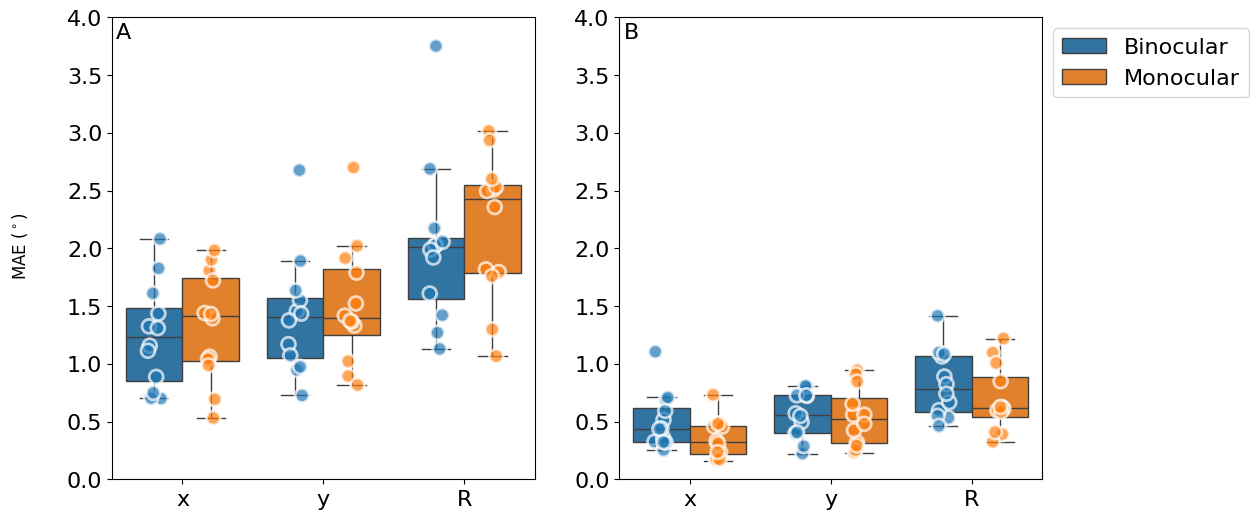
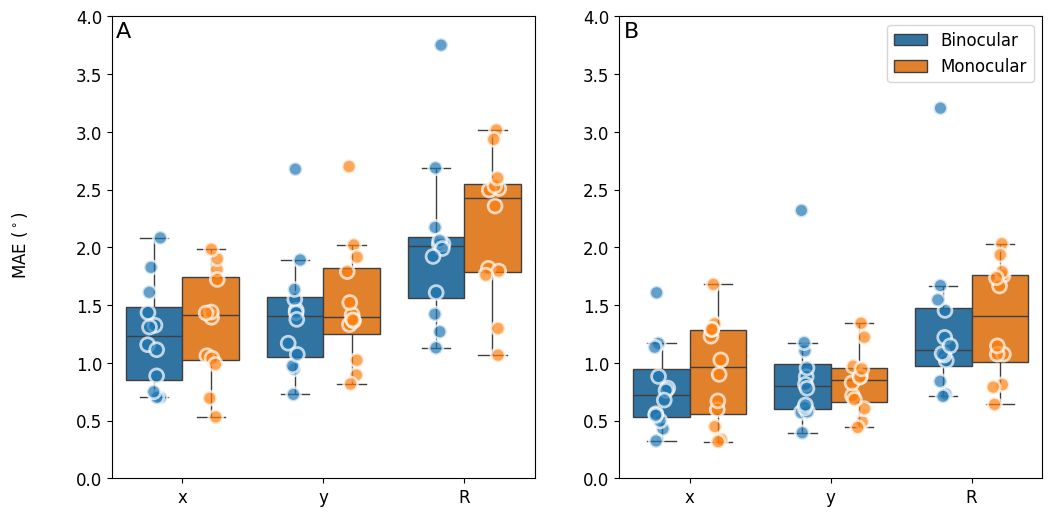
final figures

diff --git a/eyetracker_experiment1.py b/eyetracker_experiment1.py
@@ -169,7 +169,8 @@ data = pd.DataFrame({
 data_single_subject = data[data['subject ID'] == 's003']
 data_stimuli = data_single_subject[data_single_subject['procedure'] == 'MEASUREMENT_RIGHT']
 data_no_outliers = data[data['outlier'] == 0]
-data_no_outliers_central = data_no_outliers[data_no_outliers['stimulus position x'].between(-10, 10)]
+data_no_outliers_central = data_no_outliers[data_no_outliers['stimulus position x'].between(-15, 15)]
+data_no_outliers_7deg = data_no_outliers[data_no_outliers['stimulus position x'].between(-10, 10)]
 
 mae_subject = data_no_outliers.groupby(['subject ID', 'viewing', 'eye'])[['ae x', 'ae y', 'R']].mean().reset_index()
 mae_subject_central = data_no_outliers_central.groupby(['subject ID', 'viewing', 'eye'])[['ae x', 'ae y', 'R']].mean().reset_index()
@@ -204,14 +205,17 @@ sns.scatterplot(x='stimulus position x',
 
 axis1 = figure1.axes[0]
 axis1.set_xlim([-30,30])
-axis1.set_ylim([-21,21])
+axis1.set_ylim([-25,25])
+
+plt.gca().invert_xaxis()
+plt.gca().invert_yaxis()
 
 axis1.set_ylabel('Vertical POG ($^\circ$)')
 axis1.set_xlabel('Horizontal POG ($^\circ$)')
 
 handles, labels = axis1.get_legend_handles_labels()
 new_labels = [label.replace('subject ID', '').strip() for label in labels]
-axis1.legend(handles, new_labels, title='', loc='upper left', bbox_to_anchor=(1, 1))
+axis1.legend(handles, new_labels, title='', loc='lower right') #, loc='upper left', bbox_to_anchor=(1, 1))
 
 plt.savefig(f'{figures_dir}/single subject pog estimates.png', bbox_inches='tight')
 
@@ -242,7 +246,7 @@ plt.setp(axs2, xlim=custom_xlim, ylim=custom_ylim)
 
 handles, labels = axs2.get_legend_handles_labels()
 new_labels = [label.replace('subject ID', '').strip() for label in labels]
-axs2.legend(handles, new_labels, title='', loc='upper left', bbox_to_anchor=(1, 1))
+axs2.legend(handles, new_labels, title='', loc='lower right')#), bbox_to_anchor=(1, 1))
 
 plt.savefig(f'{figures_dir}/horizontal pog estimates vs target.png', bbox_inches='tight')
 
@@ -258,7 +262,7 @@ sns.scatterplot(data=data_no_outliers,
                 x='stimulus position y', y='pog y',
                 hue='subject ID', style='subject ID', 
                 s=sns_marker_size, ax=axs3[0])
-sns.scatterplot(data=data_no_outliers_central, 
+sns.scatterplot(data=data_no_outliers_7deg, 
                 x='stimulus position y', y='pog y',
                 hue='subject ID', style='subject ID', 
                 s=sns_marker_size, ax=axs3[1])
@@ -288,6 +292,77 @@ axs3[1].annotate('B', xy=(0.01, 0.99), xycoords='axes fraction', fontsize=font_s
 
 
 plt.savefig(f'{figures_dir}/vertical pog estimates vs target.png', bbox_inches='tight')
+
+#%%
+# Horizontal and vertical POG vs target
+figure3, axs3 = plt.subplots(2,2, figsize=(10,9))
+plt.rcParams['font.size'] = 12
+
+# draw identity lines
+axs3[0,0].axline((0,0), slope=1, color='gray', zorder=0)
+axs3[0,1].axline((0,0), slope=1, color='gray', zorder=0)
+axs3[1,0].axline((0,0), slope=1, color='gray', zorder=0)
+axs3[1,1].axline((0,0), slope=1, color='gray', zorder=0)
+
+sns.scatterplot(data=data_no_outliers, 
+                x='stimulus position x', y='pog x',
+                hue='subject ID', style='subject ID', 
+                s=sns_marker_size, ax=axs3[0,0])
+sns.scatterplot(data=data_no_outliers_7deg, 
+                x='stimulus position x', y='pog x',
+                hue='subject ID', style='subject ID', 
+                s=sns_marker_size, ax=axs3[0,1])
+sns.scatterplot(data=data_no_outliers, 
+                x='stimulus position y', y='pog y',
+                hue='subject ID', style='subject ID', 
+                s=sns_marker_size, ax=axs3[1,0])
+sns.scatterplot(data=data_no_outliers_7deg, 
+                x='stimulus position y', y='pog y',
+                hue='subject ID', style='subject ID', 
+                s=sns_marker_size, ax=axs3[1,1])
+
+axs3[0,0].legend_.remove()
+axs3[0,0].set_xlabel('Horizontal Stimulus Position ($^\circ$)')
+axs3[0,0].set_ylabel('Horizontal Gaze Angles ($^\circ$)')
+
+axs3[0,1].legend_.remove()
+axs3[0,1].set_xlabel('Horizontal Stimulus Position ($^\circ$)')
+axs3[0,1].set_ylabel('')
+
+axs3[1,0].legend_.remove()
+axs3[1,0].set_xlabel('Vertical Stimulus Position ($^\circ$)')
+axs3[1,0].set_ylabel('Vertical Gaze Angles ($^\circ$)')
+
+axs3[1,1].legend_.remove()
+axs3[1,1].set_xlabel('Vertical Stimulus Position ($^\circ$)')
+axs3[1,1].set_ylabel('')
+
+# Defining custom 'xlim' and 'ylim' values.
+hor_custom_xlim = (-25, 25)
+hor_custom_ylim = (-35, 35)
+vert_custom_xlim = (-12, 12)
+vert_custom_ylim = (-35, 35)
+
+# Setting the values for all axes.
+plt.setp(axs3[0,:], xlim=hor_custom_xlim, ylim=hor_custom_ylim)
+plt.setp(axs3[1,:], xlim=vert_custom_xlim, ylim=vert_custom_ylim)
+
+handles, labels = axs3[1,1].get_legend_handles_labels()
+new_labels = [label.replace('subject ID', '').strip() for label in labels]
+axs3[0,1].legend(handles, new_labels, title='', loc='lower right', fontsize=10) #, bbox_to_anchor=(1, 1))
+
+axs3[0,0].annotate('A', xy=(0.01, 0.99), xycoords='axes fraction', fontsize=font_size, ha='left', va='top')
+axs3[0,1].annotate('B', xy=(0.01, 0.99), xycoords='axes fraction', fontsize=font_size, ha='left', va='top')
+axs3[1,0].annotate('C', xy=(0.01, 0.99), xycoords='axes fraction', fontsize=font_size, ha='left', va='top')
+axs3[1,1].annotate('D', xy=(0.01, 0.99), xycoords='axes fraction', fontsize=font_size, ha='left', va='top')
+
+plt.tight_layout()
+
+
+plt.savefig(f'{figures_dir}/horizontal vertical pog vs target.png', bbox_inches='tight')
+
+
+
 
 #%%
 # MAE boxplot
@@ -326,7 +401,7 @@ axs4[1].set_ylabel('')
 # Simplify legend by removing the word "viewing"
 handles, labels = axs4[1].get_legend_handles_labels()
 new_labels = [label.replace('viewing', '').strip() for label in labels]
-axs4[1].legend(handles, new_labels, title='', loc='upper left', bbox_to_anchor=(1, 1))
+axs4[1].legend(handles, new_labels, title='', loc='upper right') #, bbox_to_anchor=(1, 1))
 
 figure4.align_ylabels()
 
@@ -451,20 +526,20 @@ axs3[1].set_ylabel('')
 axs3[1].get_yaxis().set_visible(False)
 
 
-# Create a secondary y-axis on the right
+# Create a secondary y-axis on the right for BCEA
 ax3_1 = axs3[1].twinx()
 ax3_1.set_ylim([0, 1**2])
-ax3_1.set_ylabel('Precision ($^\circ$²)', fontsize=font_size)
+ax3_1.set_ylabel('BCEA Precision ($^\circ$²)', fontsize=font_size)
 
 # Simplify legend by removing the word "viewing"
 handles, labels = axs3[1].get_legend_handles_labels()
 new_labels = [label.replace('viewing', '').strip() for label in labels]
-axs3[1].legend(handles, new_labels, title='', loc='upper left', bbox_to_anchor=(1, 1))
+axs3[1].legend(handles, new_labels, title='', loc='upper right')#, bbox_to_anchor=(1, 1))
 
 figure3.align_ylabels()
 
-# Set a shared y-label
-figure3.text(0.04, 0.5, 'Precision ($^\circ$)', va='center', rotation='vertical', fontsize=font_size)
+# Set SD precision y-label
+figure3.text(0.04, 0.5, 'SD Precision ($^\circ$)', va='center', rotation='vertical', fontsize=font_size)
 
 axs3[0].annotate('A', xy=(0.01, 0.99), xycoords='axes fraction', fontsize=font_size, ha='left', va='top')
 axs3[1].annotate('B', xy=(0.01, 0.99), xycoords='axes fraction', fontsize=font_size, ha='left', va='top')
@@ -595,7 +670,7 @@ axs3[1].set_ylabel('')
 # Simplify legend by removing the word "viewing"
 handles, labels = axs3[1].get_legend_handles_labels()
 new_labels = [label.replace('viewing', '').strip() for label in labels]
-axs3[1].legend(handles, new_labels, title='', loc='upper left', bbox_to_anchor=(1, 1))
+axs3[1].legend(handles, new_labels, title='', loc='upper right')#, bbox_to_anchor=(1, 1))
 
 figure3.align_ylabels()
 
@@ -676,6 +751,81 @@ if check_normality_flag:
     check_normality(s2s_subject[s2s_subject['viewing'] == 'Binocular']['precision x S2S'])
     check_normality(s2s_subject[s2s_subject['viewing'] == 'Binocular']['precision y S2S'])
 
+#%% Precision SD, BCEA, S2S boxplot
+# SD all
+figure3, axs3 = plt.subplots(2,2, figsize=(10,9))
+sns.boxplot(x='precision type', y='precision value', hue='viewing', data=melted_sd_subject,
+            ax=axs3[0,0], showfliers=False)
+sns.stripplot(x='precision type', y='precision value', hue='viewing', data=melted_sd_subject, 
+              dodge=True, alpha=0.7, ax=axs3[0,0], size=10, 
+              edgecolor='white', linewidth=2, legend=False)
+
+# SD central
+sns.boxplot(x='precision type', y='precision value', hue='viewing', data=melted_sd_subject_central,
+            ax=axs3[0,1], showfliers=False)
+sns.stripplot(x='precision type', y='precision value', hue='viewing', data=melted_sd_subject_central, 
+              dodge=True, alpha=0.7, ax=axs3[0,1], size=10, 
+              edgecolor='white', linewidth=2, legend=False)
+
+# S2S all
+sns.boxplot(x='precision type', y='precision value', hue='viewing', data=melted_s2s_subject,
+            ax=axs3[1,0], showfliers=False)
+sns.stripplot(x='precision type', y='precision value', hue='viewing', data=melted_s2s_subject, 
+              dodge=True, alpha=0.7, ax=axs3[1,0], size=10, 
+              edgecolor='white', linewidth=2, legend=False)
+
+# S2S central
+sns.boxplot(x='precision type', y='precision value', hue='viewing', data=melted_s2s_subject_central,
+            ax=axs3[1,1], showfliers=False)
+sns.stripplot(x='precision type', y='precision value', hue='viewing', data=melted_s2s_subject_central, 
+              dodge=True, alpha=0.7, ax=axs3[1,1], size=10, 
+              edgecolor='white', linewidth=2, legend=False)
+
+
+axs3[0,0].set_ylim([0, 1])
+axs3[0,0].set_xlabel('')  
+axs3[0,0].set_ylabel('SD Precision ($^\circ$)', fontsize=16)
+axs3[0,0].legend_.remove()
+
+# axs3[0,1].set_ylim([0, 1])
+axs3[0,1].set_xlabel('')
+axs3[0,1].set_ylabel('')
+axs3[0,1].get_yaxis().set_visible(False)
+
+axs3[1,0].set_ylim([0, 0.35])
+axs3[1,0].set_xlabel('')  
+axs3[1,0].set_ylabel('S2S Precision ($^\circ$)', fontsize=16)
+axs3[1,0].legend_.remove()
+
+axs3[1,1].set_ylim([0, 0.35])
+axs3[1,1].set_xlabel('')
+axs3[1,1].set_ylabel('')
+axs3[1,1].get_yaxis().set_visible(False)
+axs3[1,1].legend_.remove()
+
+
+
+# Create a secondary y-axis on the right for BCEA
+ax3_1 = axs3[0,1].twinx()
+ax3_1.set_ylim([0, 1**2])
+ax3_1.set_ylabel('BCEA Precision ($^\circ$²)', fontsize=font_size)
+
+# Simplify legend by removing the word "viewing"
+handles, labels = axs3[0,1].get_legend_handles_labels()
+new_labels = [label.replace('viewing', '').strip() for label in labels]
+axs3[0,1].legend(handles, new_labels, title='', loc='upper center')#, bbox_to_anchor=(1, 1))
+
+
+axs3[0,0].annotate('A', xy=(0.01, 0.99), xycoords='axes fraction', fontsize=font_size, ha='left', va='top')
+axs3[0,1].annotate('B', xy=(0.01, 0.99), xycoords='axes fraction', fontsize=font_size, ha='left', va='top')
+axs3[1,0].annotate('C', xy=(0.01, 0.99), xycoords='axes fraction', fontsize=font_size, ha='left', va='top')
+axs3[1,1].annotate('D', xy=(0.01, 0.99), xycoords='axes fraction', fontsize=font_size, ha='left', va='top')
+
+plt.show()
+
+plt.savefig(f'{figures_dir}/precision SD and S2S.png', bbox_inches='tight')
+
+
 #%% 
 # calculate MAE for vergence and show in figure with error bars
 vergence_data = data_no_outliers[data_no_outliers['viewing'] == 'Binocular']
@@ -698,12 +848,12 @@ plt.errorbar(x=mae_vergence['stimulus position x'],
              fmt='o', color='#4c72b0', 
              alpha=1, capsize=5, capthick=2, elinewidth=2)
 
-plt.xlabel('Vertical Stimulus Position ($^\circ$)')
-plt.ylabel('Horizontal Stimulus Position ($^\circ$)')
+plt.xlabel('Horizontal Stimulus Position ($^\circ$)')
+plt.ylabel('Vertical Stimulus Position ($^\circ$)')
 plt.show()
 
 vergence_summary = mae_vergence['ae vergence'].agg(['mean', 'std']).reset_index()
-vergence_summary_central = mae_vergence_central['ae vergence'].agg(['mean', 'std']).reset_index()
+# vergence_summary_central = mae_vergence_central['ae vergence'].agg(['mean', 'std']).reset_index()
 
 
 figure1.savefig(f'{figures_dir}/MAE vergence error bars.png', bbox_inches='tight')
@@ -737,10 +887,82 @@ sns.scatterplot(x='stimulus position x',
                 s=50,
                 figure=figure1,
                 zorder=3)
-plt.legend(loc='upper left', bbox_to_anchor=(1, 1))
+plt.xlim([-30,30])
+plt.ylim([-15,15])
+plt.gca().invert_xaxis()
+plt.gca().invert_yaxis()
+plt.legend(fontsize=12)
 plt.xlabel('Horizontal Stimulus Position ($^\circ$)')
 plt.ylabel('Vertical Stimulus Position ($^\circ$)')
+plt.tight_layout()
 plt.show()
 
 
 figure1.savefig(f'{figures_dir}/MAE error bars.png', bbox_inches='tight')
+
+
+#%%
+# single subject gaze and mae per stimulus
+figure1, axs1 = plt.subplots(2,1, figsize=(10,10))
+
+sns.scatterplot(x='pog x',
+                y='pog y',
+                data=data_single_subject,
+                hue='viewing',
+                style='viewing',
+                figure=figure1,
+                s=sns_marker_size,
+                ax=axs1[0],)
+sns.scatterplot(x='stimulus position x',
+                y='stimulus position y',
+                data=data_stimuli,
+                color='black',
+                marker='+',
+                linewidth=2,
+                figure=figure1,
+                s=sns_marker_size,
+                label='Target',
+                zorder=0,
+                ax=axs1[0],)
+
+axs1[1].errorbar(x=mae['stimulus position x'], 
+                y=mae['stimulus position y'], 
+                xerr=mae['ae x'],
+                fmt='o', color='#4c72b0', 
+                alpha=1, capsize=5, capthick=2, elinewidth=2,
+                label='MAE x',)
+axs1[1].errorbar(x=mae['stimulus position x'], 
+                y=mae['stimulus position y'], 
+                yerr=mae['ae y'], 
+                fmt='o', color='#dd8452', 
+                alpha=1, capsize=5, capthick=2, elinewidth=2,
+                label='MAE y',)
+sns.scatterplot(x='stimulus position x',
+                y='stimulus position y',
+                data=data_stimuli,
+                color='black',
+                s=50,
+                figure=figure1,
+                zorder=3,
+                ax=axs1[1],)
+
+
+axs1[0].set_xlim([-30,30])
+axs1[0].set_ylim([-30,30])
+axs1[0].invert_xaxis()
+axs1[0].invert_yaxis()
+axs1[0].set_ylabel('Vertical POG ($^\circ$)')
+axs1[0].set_xlabel('Horizontal POG ($^\circ$)')
+
+axs1[1].set_xlim([-32,32])
+axs1[1].set_ylim([-17,17])
+axs1[1].invert_xaxis()
+axs1[1].invert_yaxis()
+axs1[1].legend(fontsize=12)
+axs1[1].set_xlabel('Horizontal Stimulus Position ($^\circ$)')
+axs1[1].set_ylabel('Vertical Stimulus Position ($^\circ$)')
+
+axs1[0].legend(loc='upper right') 
+axs1[1].legend(loc='upper right') 
+
+plt.savefig(f'{figures_dir}/single subject pog and mae per stim.png', bbox_inches='tight')

diff --git a/vergence_distance.py b/vergence_distance.py
@@ -195,7 +195,7 @@ for random_intercept in random_effects:
 # Compute the predicted y values
 y_vals = intercept + slope * x_vals
 
-plt.plot(x_vals, y_vals, color='black', label='Regression', zorder=0)
+plt.plot(x_vals, y_vals, color='black', label='Marginal Mean', zorder=0)
 
 # Plotting the identity line (y = x)
 plt.plot(x_vals, x_vals, color='gray', linestyle='--', label='Identity', zorder=0)
@@ -205,7 +205,7 @@ plt.plot(x_vals, x_vals, color='gray', linestyle='--', label='Identity', zorder=
 rcParams.update({'font.size': 16})
 plt.xlabel(u'Target Vergence (\N{DEGREE SIGN})')
 plt.ylabel(u'Measured Vergence (\N{DEGREE SIGN})')
-plt.legend(loc='upper left', bbox_to_anchor=(1, 1))
+plt.legend(loc='lower right', fontsize=10) #, bbox_to_anchor=(1, 1))
 plt.tight_layout()
 plt.show()
 # %%

diff --git a/eyetracker_validation.py b/eyetracker_validation.py
@@ -1,7 +1,7 @@
 #%%
 import numpy as np, pandas as pd
 import matplotlib.pyplot as plt
-import statsmodels.formula.api as smf
+# import statsmodels.formula.api as smf
 import seaborn as sns
 # %matplotlib qt
 
